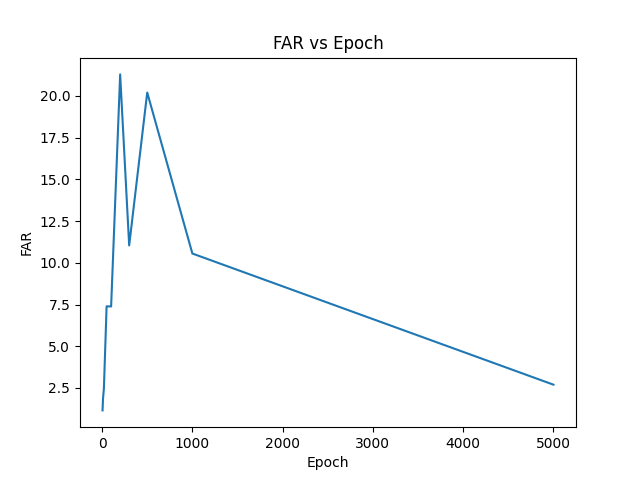
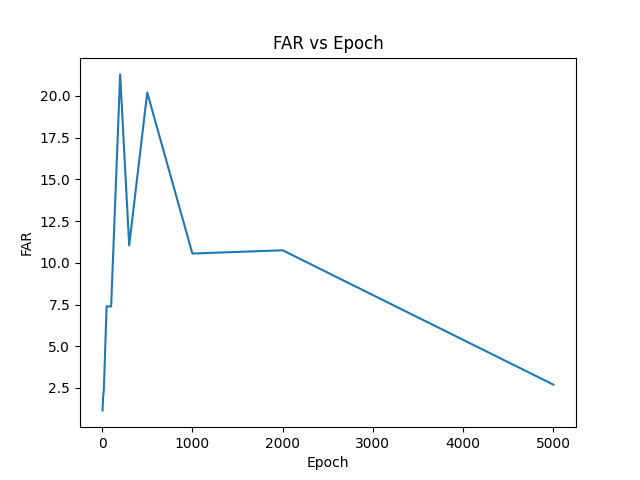
include evaluation results from model trained with hyperparam epoch = 2000

diff --git a/develop/train_urfd.py b/develop/train_urfd.py
@@ -54,7 +54,7 @@ batch_norm = True
 learning_rate = 0.0001
 mini_batch_size = 64
 weight_0 = 1
-epochs = 1000
+epochs = 2000
 use_validation = True
 # After the training stops, use train+validation to train for 1 epoch
 use_val_for_training = True
